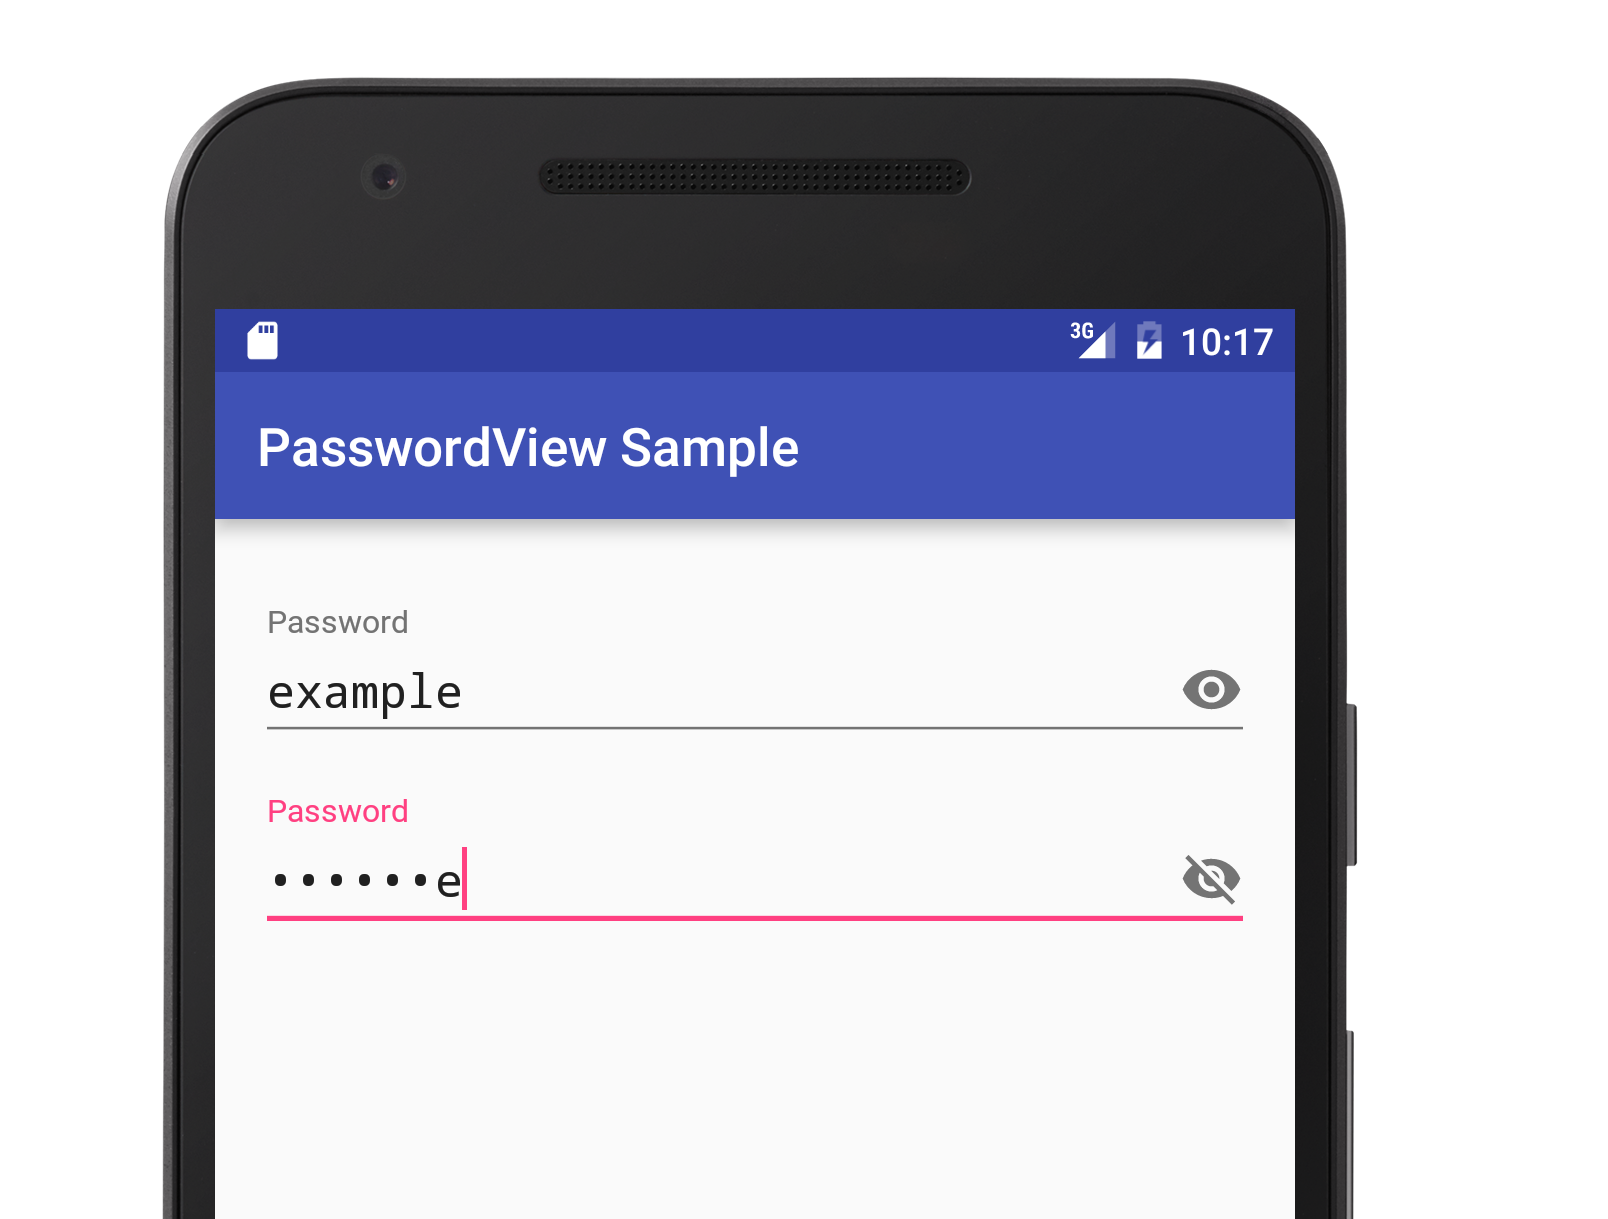
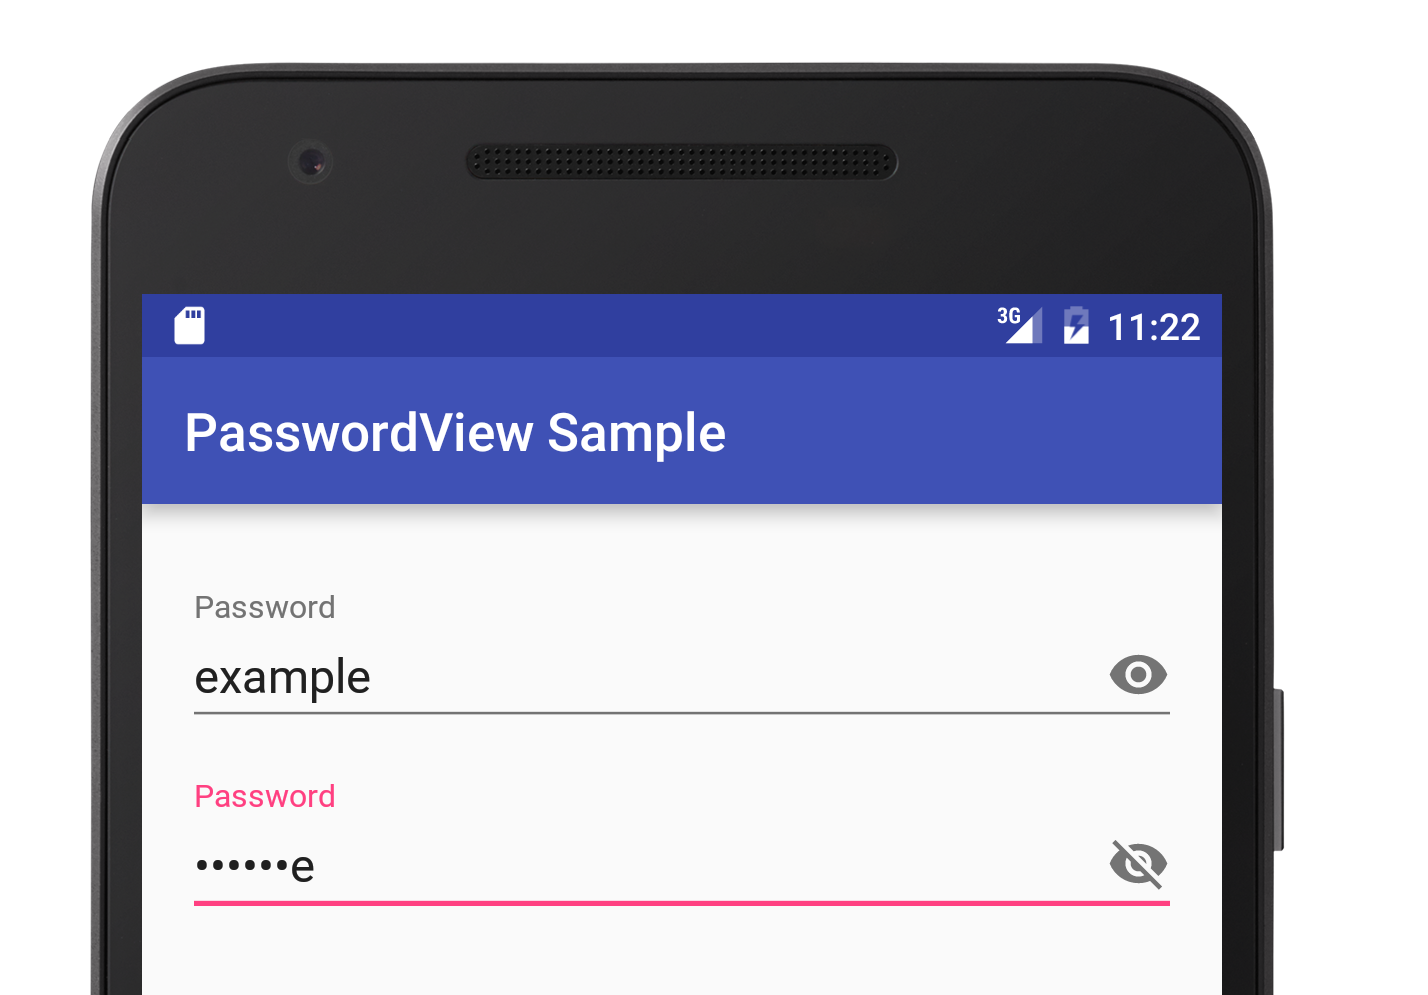
Fix to retain custom fonts.

Changed region(s): [[0.0616, 0.0623, 0.9244, 1.0], [0.3389, 0.1558, 0.6162, 0.1869]]

diff --git a/passwordviewsample/src/main/java/com/xwray/passwordviewsample/MainActivity.java b/passwordviewsample/src/main/java/com/xwray/passwordviewsample/MainActivity.java
@@ -1,9 +1,11 @@
 package com.xwray.passwordviewsample;
 
 import android.graphics.Typeface;
-import android.os.Bundle;
 import android.support.design.widget.TextInputLayout;
 import android.support.v7.app.AppCompatActivity;
+import android.os.Bundle;
+
+import com.xwray.passwordview.PasswordView;
 
 public class MainActivity extends AppCompatActivity {
 
@@ -12,11 +14,16 @@ public class MainActivity extends AppCompatActivity {
         super.onCreate(savedInstanceState);
         setContentView(R.layout.activity_main);
 
-        TextInputLayout passwordView = (TextInputLayout) findViewById(R.id.password);
-        TextInputLayout passwordViewWithStrikeThrough = (TextInputLayout) findViewById(R.id.password_strike);
+        PasswordView passwordView = (PasswordView) findViewById(R.id.password);
+        TextInputLayout passwordViewTIL = (TextInputLayout) findViewById(R.id.password_til);
+
+        PasswordView passwordViewWithStrikeThrough = (PasswordView) findViewById(R.id.password_strike);
+        TextInputLayout passwordViewWithStrikeThroughTIL = (TextInputLayout) findViewById(R.id.password_strike_til);
 
         Typeface roboto = Typeface.createFromAsset(getAssets(), "fonts/Roboto-Regular.ttf");
         passwordView.setTypeface(roboto);
+        passwordViewTIL.setTypeface(roboto);
         passwordViewWithStrikeThrough.setTypeface(roboto);
+        passwordViewWithStrikeThroughTIL.setTypeface(roboto);
     }
 }

diff --git a/library/src/main/java/com/xwray/passwordview/PasswordView.java b/library/src/main/java/com/xwray/passwordview/PasswordView.java
@@ -72,11 +72,6 @@ public class PasswordView extends EditText {
 
     protected void setup() {
         setInputType(InputType.TYPE_CLASS_TEXT | (visible ? InputType.TYPE_TEXT_VARIATION_VISIBLE_PASSWORD : InputType.TYPE_TEXT_VARIATION_PASSWORD));
-
-        // Setting the "password" input types sets the font to monospace, so if we have a saved
-        // typeface, re-set it.
-        setTypeface(typeface);
-
         Drawable drawable = useStrikeThrough && !visible ? eyeWithStrike : eye;
         Drawable[] drawables = getCompoundDrawables();
         setCompoundDrawablesWithIntrinsicBounds(drawables[0], drawables[1], drawable, drawables[3]);
@@ -95,9 +90,10 @@ public class PasswordView extends EditText {
         return super.onTouchEvent(event);
     }
 
-    @Override public void setTypeface(Typeface tf, int style) {
-        this.typeface = tf;
-        super.setTypeface(tf, style);
+    @Override public void setInputType(int type) {
+        this.typeface = getTypeface();
+        super.setInputType(type);
+        setTypeface(typeface);
     }
 
     public void setUseStrikeThrough(boolean useStrikeThrough) {
